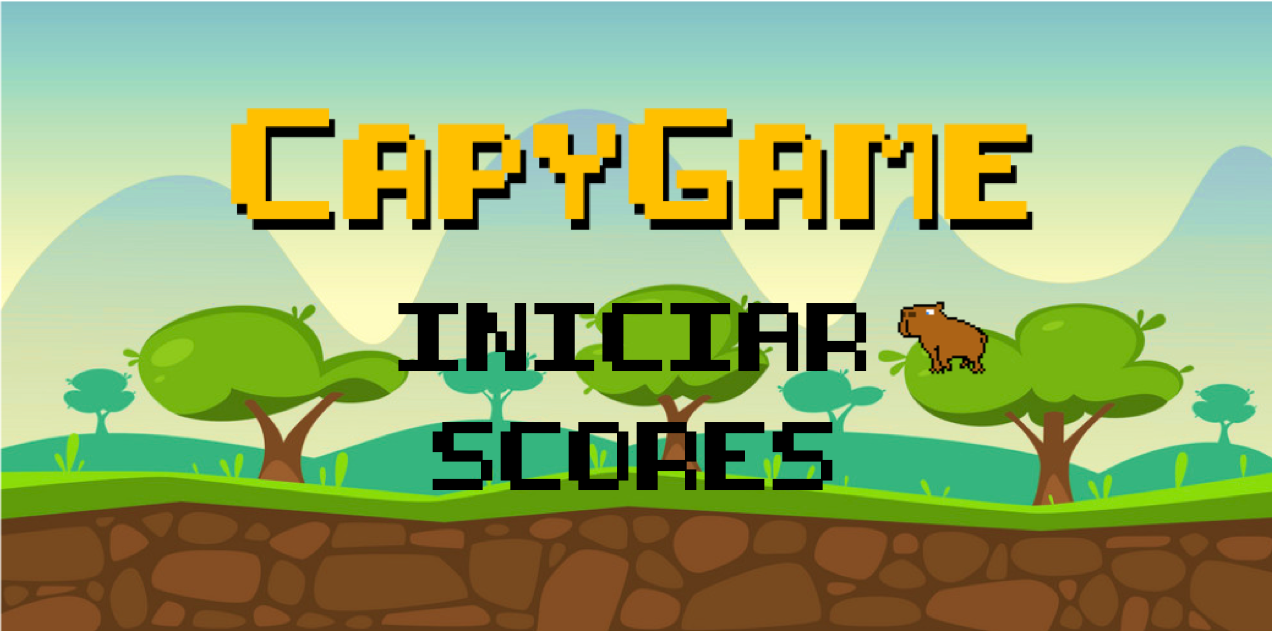
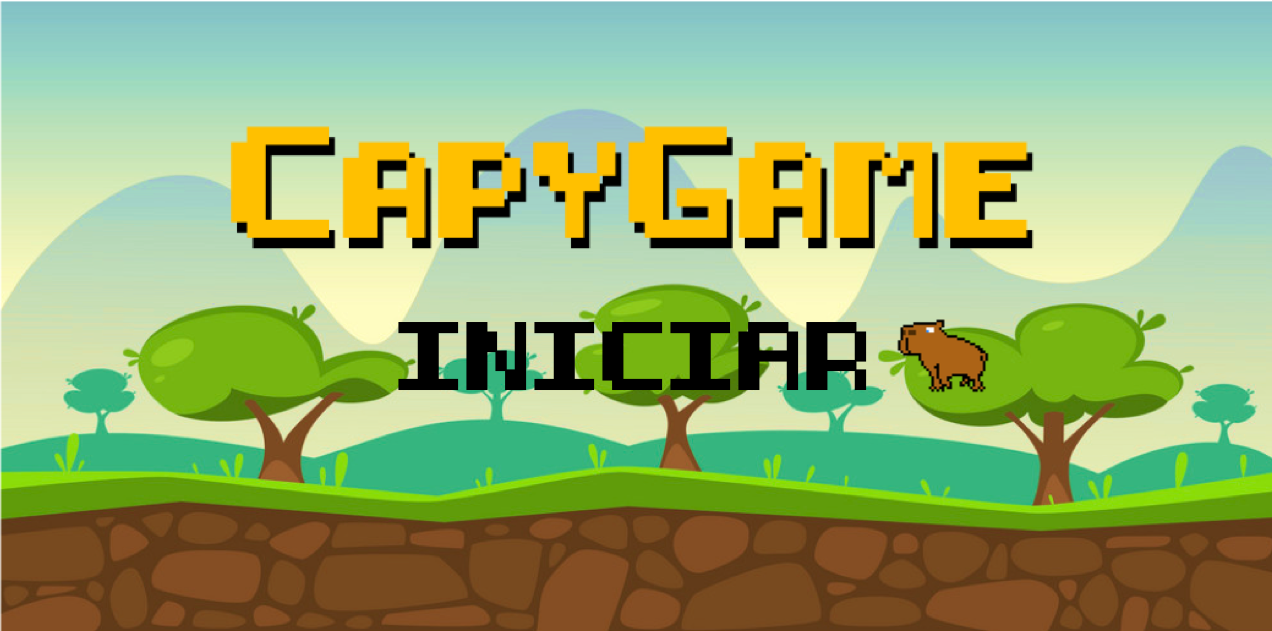
Botões - UI
Modificações finais para os botões de interação do jogo - de mudança de tela (para ser compatível com o controle joystick)

Changed region(s): [[0.184, 0.1506, 0.8278, 0.4216], [0.3066, 0.4818, 0.7972, 0.6323], [0.3373, 0.6624, 0.6745, 0.7829]]

diff --git a/capygame2.0/CapyGame_v2.0.py b/capygame2.0/CapyGame_v2.0.py
@@ -213,7 +213,7 @@ class Game():
     def __init__(self):
         self.levels = [self.level_1, self.level_2, self.level_3]
         self.heart_surf = pygame.transform.scale(pygame.image.load('sprites/heart.png').convert_alpha(), (23, 20))
-        self.coin_surf = pygame.transform.scale(pygame.image.load('sprites/key.png').convert_alpha(), (40, 25))
+        self.coin_surf = pygame.transform.scale(pygame.image.load('sprites/pineapple.png').convert_alpha(), (25, 40))
         self.acc = 3
         self.timer = False
         self.level = 0
@@ -234,7 +234,7 @@ class Game():
     A game state function.
     Called at the start of a new level.
 """
-        self.lives = 5
+        self.lives = 2
         self.coin_count = 0
         self.score = 0
         self.sprites = [self]
@@ -330,14 +330,51 @@ class Game():
 
     def play_again(self):
         " a game state function "
+        self.btn_option = True
+        self.btn_state = "play_selected"        
 
-        # opção de selecionar no teclado e não só no mouse
-        play = screen.blit(pygame.image.load("sprites/btn_playmore.png"), ((X-500)//3, Y//8*5))
-        stop = screen.blit(pygame.image.load("sprites/btn_stopplay.png"), ((X-300)//3*2+100, Y//8*5))
+        # play = screen.blit(pygame.image.load("sprites/btn_playmore.png"), ((X-500)//3, Y//8*5))
+        # stop = screen.blit(pygame.image.load("sprites/btn_stopplay.png"), ((X-300)//3*2+100, Y//8*5))
+        # play_selected = screen.blit(pygame.image.load("sprites/btn_playmore_s.png"), ((X-500)//3, Y//8*5))
+        # stop_selected = screen.blit(pygame.image.load("sprites/btn_stopplay_s.png"), ((X-300)//3*2+100, Y//8*5))
         
-        pygame.display.flip()
-        self.buttons = [(play, self.init), (stop, self.endpage)]
-        self.state = self.mouse_click
+        # pygame.display.flip()
+        # self.buttons = [(play, self.init), (stop, self.endpage)]
+        # self.state = self.mouse_click
+
+        play = pygame.image.load("sprites/btn_playmore.png")
+        stop = pygame.image.load("sprites/btn_stopplay.png")
+        play_selected = pygame.image.load("sprites/btn_playmore_s.png")
+        stop_selected = pygame.image.load("sprites/btn_stopplay_s.png")
+
+        while self.btn_option:
+            for event in pygame.event.get():
+                if event.type == pygame.QUIT:
+                    pygame.quit()
+                    sys.exit()
+                    self.btn_option = False
+                elif event.type == pygame.KEYDOWN:
+                    if event.key == pygame.K_RIGHT:
+                        self.btn_state = "stop_selected"
+                    elif event.key == pygame.K_LEFT:
+                        self.btn_state = "play_selected"
+                    elif event.key == 13:
+                        self.btn_option = False
+
+            if self.btn_state == "stop_selected":
+                screen.blit(play, ((X-500)//3, Y//8*5))
+                screen.blit(stop_selected, ((X-300)//3*2+100, Y//8*5))
+            elif self.btn_state == "play_selected":
+                screen.blit(play_selected, ((X-500)//3, Y//8*5))
+                screen.blit(stop, ((X-300)//3*2+100, Y//8*5))
+
+            pygame.display.update()
+        
+        if self.btn_option == False and self.btn_state == "play_selected":
+            self.init()
+        elif self.btn_option == False and self.btn_state == "stop_selected":
+            self.endpage()
+             
 
     def mouse_click(self):
         while True:
@@ -379,17 +416,17 @@ class Game():
                     sys.exit()
                     menu = False
                 if event.type == pygame.KEYDOWN:
-                    if event.key == pygame.K_DOWN:
-                        state_pag = "menu_scores"
-                    elif event.key == pygame.K_UP:
-                        state_pag = "menu_init"
-                    elif event.key == 13:
+                    # if event.key == pygame.K_DOWN:
+                    #     state_pag = "menu_scores"
+                    # elif event.key == pygame.K_UP:
+                    #     state_pag = "menu_init"
+                    if event.key == 13:
                         menu = False
 
             if state_pag == "menu_init":
                 screen.blit(init_menu, (0, 0))
-            elif state_pag == "menu_scores":
-                screen.blit(scores_menu, (0, 0))
+            # elif state_pag == "menu_scores":
+            #     screen.blit(scores_menu, (0, 0))
 
             pygame.display.update()
         
@@ -401,8 +438,11 @@ class Game():
     def endpage(self):
         " a game state function "
         screen.blit(final_score, (0, 0))
-        
 
+        if self.highscore == 0:
+            if game.score < 0:
+                self.highscore = game.score
+        
         if game.score > self.highscore:
             self.highscore = game.score
             font = pygame.font.SysFont("Segoe Print", 140)
@@ -426,10 +466,22 @@ class Game():
             screen.blit(txt_surf2, txt_rect2)
 
         # stop = button("Exit", BLACK, ((X-100)//2, Y//8*5))
-        stop = screen.blit(pygame.image.load("sprites/btn_exit.png"), (50, Y//8*5 + 100))
+
+        stop = pygame.image.load("sprites/btn_exit.png")
+        screen.blit(stop, (50, Y//8*5 + 100))
+        # stop = screen.blit(pygame.image.load("sprites/btn_exit.png"), (50, Y//8*5 + 100))
         
         self.buttons = [(stop, self.end)]
         pygame.display.flip()
+
+        self.btn_exit_select = True
+        while self.btn_exit_select:
+            for event in pygame.event.get():
+                if event.type == pygame.QUIT or event.type == pygame.KEYDOWN:
+                    pygame.quit()
+                    sys.exit()
+                    self.btn_exit_select = False
+
 
         self.state = self.mouse_click
 
